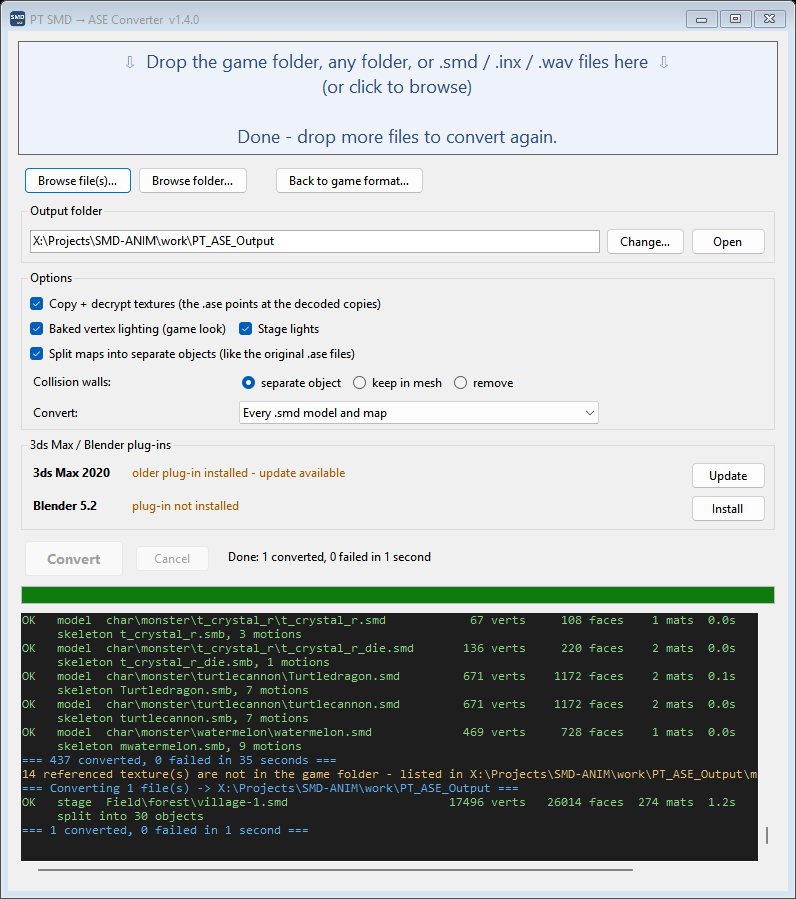
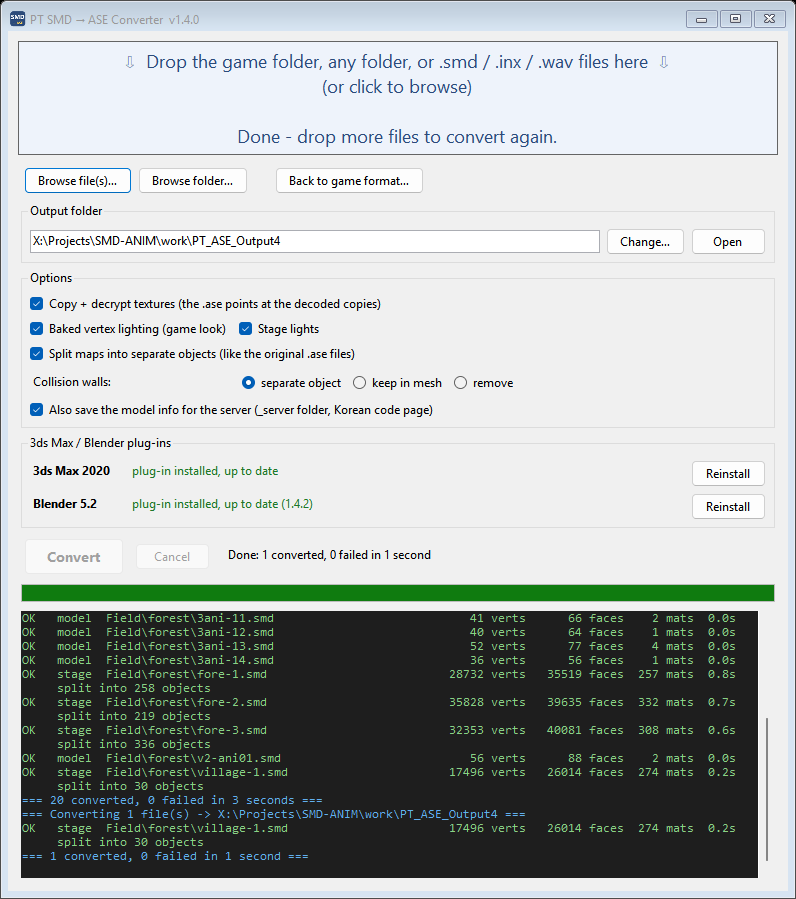
GUI: no Convert dropdown, the window picks the conversion from what is dropped
The game folder, or anything with sounds, text or .inx in it, gets the
whole-folder conversion (every kind of file); .smd files and their textures
get the model conversion. The per-kind ticks are gone; the _server copy stays
as one option. Guides, release readme and screenshots updated.

Changed region(s): [[0.0302, 0.436, 0.9648, 0.9967], [0.8744, 0.4983, 0.9648, 0.5918]]

diff --git a/src/Guide/Guide_3dsMax.html b/src/Guide/Guide_3dsMax.html
@@ -140,7 +140,7 @@ Just want to try it? <b>Scripting → Run Script…</b> → <code>PT_ASE_Importe
   <tr><td>Split maps into separate objects</td><td>Cuts a map into separate objects (buildings, trees, terrain…), close to
       how the original <code>.ase</code> files were made. Untick it to get the whole map as one mesh.</td></tr>
   <tr><td>Collision walls</td><td>The invisible walls of a map: <i>separate object</i> (easy to hide), <i>keep in mesh</i>, or <i>remove</i>.</td></tr>
-  <tr><td>Convert</td><td><i>Every .smd model and map</i>, <i>Terrain maps only</i>, <i>Objects, characters, monsters</i> (skips map terrain), or <i>Whole game folder</i> (below).</td></tr>
+  <tr><td>Also save the model info for the server</td><td>Only for the whole game folder (below): a <code>_server</code> copy of the model info in the game's Korean code page.</td></tr>
 </table></div>
 <div class="note"><b>Keep the output folder together.</b> The <code>.ase</code> files need the <code>textures</code> folder.
 Player armour and heads also need their class animation file (<code>m1_motions.ase</code> … <code>m8_motions.ase</code>),
@@ -149,7 +149,7 @@ which the converter writes into the same folder.</div>
 Run <code>smd2ase.exe --help</code> for every option.</p>
 
 <h3>The whole game folder</h3>
-<p>Drop the whole Priston Tale folder onto the window and <b>Convert</b> switches to <i>Whole game folder</i> by itself.
+<p>Drop the whole Priston Tale folder onto the window (or any folder with sounds, text or <code>.inx</code> files in it): there is nothing to pick, every kind of file is converted.
 Everything comes out readable, in the game's own folder layout:</p>
 <div class="table-wrap"><table>
   <tr><th>Game file</th><th>Becomes</th></tr>
@@ -161,10 +161,10 @@ Everything comes out readable, in the game's own folder layout:</p>
       <code>.inf</code> / <code>.in</code> it was made from: model files, detail levels, and every animation with its frames and key events</td></tr>
   <tr><td><code>_server\</code></td><td>The model info files again in the game's Korean code page: the form the server reads</td></tr>
 </table></div>
-<p>The ticks under <b>Convert</b> leave kinds of file out. <b>Back to game format…</b> goes the other way for files you edited:
+<p><b>Back to game format…</b> goes the other way for files you edited:
 <code>.ini</code> / <code>.inf</code> / <code>.in</code> → <code>.inx</code>, <code>.wav</code>, <code>.bmp</code> and <code>.tga</code> → the game's own headers,
 written to <code>game_format</code> in the output folder. Keep the game's folder names (<code>char\monster\…</code>): an <code>.inx</code> stores a checksum of its own path.</p>
-<figure><img src="Guide_images/convert_whole.png" alt="Converter set to the whole game folder"></figure>
+<figure><img src="Guide_images/convert_whole.png" alt="Converter with the whole game folder dropped in"></figure>
 
 <!-- ============================================================ IMPORT -->
 <h2 id="import">4. Import into 3ds Max</h2>

diff --git a/src/Guide/Guide_Blender.html b/src/Guide/Guide_Blender.html
@@ -140,7 +140,7 @@ maps, weapons and items, monsters and characters, with textures, skeletons and a
   <tr><td>Split maps into separate objects</td><td>Cuts a map into separate objects (buildings, trees, terrain…), close to
       how the original <code>.ase</code> files were made. Untick it to get the whole map as one mesh.</td></tr>
   <tr><td>Collision walls</td><td>The invisible walls of a map: <i>separate object</i> (easy to hide), <i>keep in mesh</i>, or <i>remove</i>.</td></tr>
-  <tr><td>Convert</td><td><i>Every .smd model and map</i>, <i>Terrain maps only</i>, <i>Objects, characters, monsters</i> (skips map terrain), or <i>Whole game folder</i> (below).</td></tr>
+  <tr><td>Also save the model info for the server</td><td>Only for the whole game folder (below): a <code>_server</code> copy of the model info in the game's Korean code page.</td></tr>
 </table></div>
 <div class="note"><b>Keep the output folder together.</b> The <code>.ase</code> files need the <code>textures</code> folder.
 Player armour and heads also need their class animation file (<code>m1_motions.ase</code> … <code>m8_motions.ase</code>),
@@ -149,7 +149,7 @@ which the converter writes into the same folder.</div>
 Run <code>smd2ase.exe --help</code> for every option.</p>
 
 <h3>The whole game folder</h3>
-<p>Drop the whole Priston Tale folder onto the window and <b>Convert</b> switches to <i>Whole game folder</i> by itself.
+<p>Drop the whole Priston Tale folder onto the window (or any folder with sounds, text or <code>.inx</code> files in it): there is nothing to pick, every kind of file is converted.
 Everything comes out readable, in the game's own folder layout:</p>
 <div class="table-wrap"><table>
   <tr><th>Game file</th><th>Becomes</th></tr>
@@ -161,10 +161,10 @@ Everything comes out readable, in the game's own folder layout:</p>
       <code>.inf</code> / <code>.in</code> it was made from: model files, detail levels, and every animation with its frames and key events</td></tr>
   <tr><td><code>_server\</code></td><td>The model info files again in the game's Korean code page: the form the server reads</td></tr>
 </table></div>
-<p>The ticks under <b>Convert</b> leave kinds of file out. <b>Back to game format…</b> goes the other way for files you edited:
+<p><b>Back to game format…</b> goes the other way for files you edited:
 <code>.ini</code> / <code>.inf</code> / <code>.in</code> → <code>.inx</code>, <code>.wav</code>, <code>.bmp</code> and <code>.tga</code> → the game's own headers,
 written to <code>game_format</code> in the output folder. Keep the game's folder names (<code>char\monster\…</code>): an <code>.inx</code> stores a checksum of its own path.</p>
-<figure><img src="Guide_images/convert_whole.png" alt="Converter set to the whole game folder"></figure>
+<figure><img src="Guide_images/convert_whole.png" alt="Converter with the whole game folder dropped in"></figure>
 
 <!-- ============================================================ IMPORT -->
 <h2 id="import">4. Import into Blender</h2>

diff --git a/src/PT_SMD2ASE/MainForm.cs b/src/PT_SMD2ASE/MainForm.cs
@@ -21,9 +21,7 @@ namespace PT_SMD2ASE
         readonly TextBox outBox;
         readonly CheckBox chkTex, chkVc, chkLights, chkSplit, chkOk;
         readonly RadioButton rbSplit, rbKeep, rbDrop;
-        readonly ComboBox cmbWhat;
-        readonly CheckBox chkModels, chkSounds, chkText, chkInfo, chkServer;
-        readonly FlowLayoutPanel clientRow;
+        readonly CheckBox chkServer;
         readonly TableLayoutPanel plugRows;
         readonly Panel warn;
         readonly Label warnLbl, status;
@@ -33,8 +31,8 @@ namespace PT_SMD2ASE
 
         List<string> pending = new List<string>();
         ClientConvert.Scan scan;                // whole game folder mode: what was dropped
-        bool needConfirm, switching;
-        const int WholeFolder = 3;              // cmbWhat index of "Whole game folder"
+        bool needConfirm;
+        bool whole;                             // what was dropped needs the whole-folder conversion
         CancellationTokenSource cts;
         Task worker;
 
@@ -125,37 +123,12 @@ namespace PT_SMD2ASE
             if (!rbKeep.Checked && !rbDrop.Checked) rbSplit.Checked = true;
             coll.Controls.AddRange(new Control[] { rbSplit, rbKeep, rbDrop });
             opt.Controls.Add(coll, 1, 3);
-            opt.Controls.Add(new Label { Text = "Convert:", AutoSize = true, Margin = new Padding(3, 7, 3, 3) }, 0, 4);
-            cmbWhat = new ComboBox { DropDownStyle = ComboBoxStyle.DropDownList, Width = 360 };
-            cmbWhat.Items.AddRange(new object[] { "Every .smd model and map", "Terrain maps only", "Objects, characters, monsters",
-                                                  "Whole game folder (models, textures, sounds, text, model info)" });
-            cmbWhat.SelectedIndex = Math.Max(0, Math.Min(WholeFolder, st.What));
-            cmbWhat.SelectedIndexChanged += (s, e) =>
-            {
-                clientRow.Visible = cmbWhat.SelectedIndex == WholeFolder;
-                if (!switching && inputs.Length > 0 && !Busy) ShowSelection();
-            };
-            opt.Controls.Add(cmbWhat, 1, 4);
-            // whole game folder: which kinds of file
-            clientRow = new FlowLayoutPanel { AutoSize = true, AutoSizeMode = AutoSizeMode.GrowAndShrink, WrapContents = true, Dock = DockStyle.Fill, Margin = new Padding(0, 2, 0, 0) };
-            chkModels = new CheckBox { Text = "Models → .ase", AutoSize = true, Checked = st.Models };
-            chkSounds = new CheckBox { Text = "Sounds → playable .wav", AutoSize = true, Checked = st.Sounds };
-            chkText = new CheckBox { Text = "Korean text → UTF-8", AutoSize = true, Checked = st.Text };
-            chkInfo = new CheckBox { Text = "Model info .inx → .ini", AutoSize = true, Checked = st.ModelInfo };
-            chkServer = new CheckBox { Text = "Server copy (_server)", AutoSize = true, Checked = st.ServerCopy };
-            var tips = new ToolTip { AutoPopDelay = 20000 };
-            tips.SetToolTip(chkSounds, "The game's sound effects have a scrambled header (JODO instead of RIFF). Music (.bgm) is saved as .wav.");
-            tips.SetToolTip(chkText, ".inf .ini .in .sin .msg .txt .lua ... are Korean (code page 949). The copies are UTF-8, readable in any editor.");
-            tips.SetToolTip(chkInfo, "Each compiled .inx (monster / NPC / player model info: model files, detail levels,\n" +
-                                     "animation frames and key events) is rebuilt as the .ini / .inf / .in text it was made from.");
-            tips.SetToolTip(chkServer, "<output>\\_server holds the model info files again in the game's own Korean code page:\nthe form the server and the game's tools read.");
-            foreach (var c in new CheckBox[] { chkModels, chkSounds, chkText, chkInfo, chkServer })
-            {
-                c.CheckedChanged += (s, e) => { if (!switching && scan != null && !Busy) ShowSelection(); };
-                clientRow.Controls.Add(c);
-            }
-            clientRow.Visible = cmbWhat.SelectedIndex == WholeFolder;
-            opt.Controls.Add(clientRow, 1, 5);
+            chkServer = new CheckBox { Text = "Also save the model info for the server (_server folder, Korean code page)", AutoSize = true, Checked = st.ServerCopy };
+            new ToolTip { AutoPopDelay = 20000 }.SetToolTip(chkServer,
+                "<output>\\_server holds the model info files (.ini / .inf / .in made from each .inx) again in the game's own\n" +
+                "Korean code page: the form the server and the game's tools read.");
+            chkServer.CheckedChanged += (s, e) => { if (scan != null && !Busy) ShowSelection(); };
+            opt.Controls.Add(chkServer, 0, 4); opt.SetColumnSpan(chkServer, 2);
             opGrp.Controls.Add(opt);
             root.Controls.Add(opGrp);
 
@@ -309,7 +282,7 @@ namespace PT_SMD2ASE
 
         void UpdateButtons()
         {
-            bool any = Whole ? scan != null && scan.Files.Count > 0 : pending.Count > 0;
+            bool any = whole ? scan != null && scan.Files.Count > 0 : pending.Count > 0;
             bool can = any && !Busy && (!needConfirm || chkOk.Checked);
             btnGo.Enabled = can;
             btnCancel.Enabled = Busy;
@@ -370,15 +343,6 @@ namespace PT_SMD2ASE
             ShowSelection();
         }
 
-        bool Whole => cmbWhat.SelectedIndex == WholeFolder;
-
-        void SetMode(int index)
-        {
-            switching = true;
-            cmbWhat.SelectedIndex = index;
-            switching = false;
-        }
-
         void ShowSelection()
         {
             pending = Batch.Collect(inputs);
@@ -386,18 +350,16 @@ namespace PT_SMD2ASE
             chkOk.Checked = false;
             needConfirm = false;
             warn.Visible = false;
-            // the whole game folder, or files only the whole-folder mode converts: switch to it
+            // the game folder, or anything with sounds, text or model info in it: convert every kind of file;
+            // only .smd (and their textures): the model conversion
             bool gameFolder = inputs.Any(p => Directory.Exists(p) && ClientConvert.LooksLikeClient(p));
-            if (!Whole && (gameFolder || pending.Count == 0))
-            {
-                var sc = ClientConvert.ScanInputs(inputs);
-                if (gameFolder || sc.HasClientFiles) { SetMode(WholeFolder); scan = sc; }
-            }
-            if (Whole) { ShowClientSelection(); return; }
+            var sc = ClientConvert.ScanInputs(inputs);
+            whole = gameFolder || sc.HasClientFiles || (pending.Count == 0 && sc.Files.Count > 0);
+            if (whole) { scan = sc; ShowClientSelection(); return; }
             if (pending.Count == 0)
             {
-                SetDropText("No .smd files found in what you dropped.");
-                Log("No .smd files found in: " + string.Join("; ", inputs), Warn);
+                SetDropText("Nothing to convert in what you dropped.");
+                Log("No game files found in: " + string.Join("; ", inputs), Warn);
                 UpdateButtons();
                 return;
             }
@@ -427,8 +389,7 @@ namespace PT_SMD2ASE
 
         ClientSettings ClientOptions() => new ClientSettings
         {
-            OutDir = OutDir, Models = chkModels.Checked, Textures = chkTex.Checked, Sounds = chkSounds.Checked,
-            Text = chkText.Checked, ModelInfo = chkInfo.Checked, ServerCopy = chkServer.Checked && chkInfo.Checked,
+            OutDir = OutDir, Textures = chkTex.Checked, ServerCopy = chkServer.Checked,
         };
 
         void ShowClientSelection()
@@ -446,7 +407,7 @@ namespace PT_SMD2ASE
             Part(c.ModelInfo, ClientConvert.FileKind.ModelInfo, "model info files");
             if (parts.Count == 0)
             {
-                SetDropText("Nothing to convert in what you dropped (with the options ticked).");
+                SetDropText("Nothing to convert in what you dropped.");
                 UpdateButtons();
                 return;
             }
@@ -525,7 +486,7 @@ namespace PT_SMD2ASE
         // ------------------------------------------------------------- conversion
         void Start()
         {
-            if (Whole) { StartClient(); return; }
+            if (whole) { StartClient(); return; }
             if (pending.Count == 0 || Busy || (needConfirm && !chkOk.Checked)) return;
             string outDir = OutDir;
             try { Directory.CreateDirectory(outDir); }
@@ -537,8 +498,6 @@ namespace PT_SMD2ASE
             {
                 OutDir = outDir,
                 Textures = chkTex.Checked,
-                StagesOnly = cmbWhat.SelectedIndex == 1,
-                ModelsOnly = cmbWhat.SelectedIndex == 2,
             };
             s.Template.SplitCollision = !rbKeep.Checked;
             s.Template.DropCollision = rbDrop.Checked;
@@ -677,9 +636,7 @@ namespace PT_SMD2ASE
             st.Lights = chkLights.Checked;
             st.SplitObjects = chkSplit.Checked;
             st.Collision = rbKeep.Checked ? "keep" : rbDrop.Checked ? "drop" : "split";
-            st.What = cmbWhat.SelectedIndex;
-            st.Models = chkModels.Checked; st.Sounds = chkSounds.Checked; st.Text = chkText.Checked;
-            st.ModelInfo = chkInfo.Checked; st.ServerCopy = chkServer.Checked;
+            st.ServerCopy = chkServer.Checked;
             if (WindowState == FormWindowState.Normal) { st.Width = ClientSize.Width; st.Height = ClientSize.Height; }
             st.Save();
         }
@@ -707,7 +664,6 @@ namespace PT_SMD2ASE
         public bool TestBusy => Busy;
         public string TestStatus => status.Text;
         public void TestSetOut(string d) => outBox.Text = d;
-        public int TestMode => cmbWhat.SelectedIndex;
-        public void TestSetMode(int i) => cmbWhat.SelectedIndex = i;
+        public bool TestWhole => whole;
     }
 }

diff --git a/src/PT_SMD2ASE/Settings.cs b/src/PT_SMD2ASE/Settings.cs
@@ -16,8 +16,8 @@ namespace PT_SMD2ASE
 
         public string OutDir = DefaultOut, LastIn = "", Collision = "split";
         public bool Textures = true, VertexColors = true, Lights = true, SplitObjects = true;
-        public bool Models = true, Sounds = true, Text = true, ModelInfo = true, ServerCopy = true;   // whole game folder
-        public int What = 0, Width = 800, Height = 860;
+        public bool ServerCopy = true;          // whole game folder: _server copy of the model info
+        public int Width = 800, Height = 860;
 
         public static Settings Load()
         {
@@ -39,11 +39,6 @@ namespace PT_SMD2ASE
                 if (d.TryGetValue("vertex_colors", out v)) s.VertexColors = v == "1";
                 if (d.TryGetValue("lights", out v)) s.Lights = v == "1";
                 if (d.TryGetValue("split_objects", out v)) s.SplitObjects = v == "1";
-                if (d.TryGetValue("what", out v)) int.TryParse(v, out s.What);
-                if (d.TryGetValue("models", out v)) s.Models = v == "1";
-                if (d.TryGetValue("sounds", out v)) s.Sounds = v == "1";
-                if (d.TryGetValue("text", out v)) s.Text = v == "1";
-                if (d.TryGetValue("model_info", out v)) s.ModelInfo = v == "1";
                 if (d.TryGetValue("server_copy", out v)) s.ServerCopy = v == "1";
                 if (d.TryGetValue("width", out v) && int.TryParse(v, out int w) && w >= 640) s.Width = w;
                 if (d.TryGetValue("height", out v) && int.TryParse(v, out int h) && h >= 800) s.Height = h;   // (smaller: saved before the plug-in panel)
@@ -61,9 +56,7 @@ namespace PT_SMD2ASE
                 {
                     "out=" + OutDir, "last_in=" + LastIn, "collision=" + Collision,
                     "textures=" + (Textures ? 1 : 0), "vertex_colors=" + (VertexColors ? 1 : 0), "lights=" + (Lights ? 1 : 0), "split_objects=" + (SplitObjects ? 1 : 0),
-                    "what=" + What.ToString(CultureInfo.InvariantCulture),
-                    "models=" + (Models ? 1 : 0), "sounds=" + (Sounds ? 1 : 0), "text=" + (Text ? 1 : 0),
-                    "model_info=" + (ModelInfo ? 1 : 0), "server_copy=" + (ServerCopy ? 1 : 0),
+                    "server_copy=" + (ServerCopy ? 1 : 0),
                     "width=" + Width.ToString(CultureInfo.InvariantCulture), "height=" + Height.ToString(CultureInfo.InvariantCulture),
                 });
             }

diff --git a/src/PT_SMD2ASE/Program.cs b/src/PT_SMD2ASE/Program.cs
@@ -56,9 +56,9 @@ namespace PT_SMD2ASE
             {
                 switch (step)
                 {
-                    case 0: f.TestSetOut(outDir); f.TestSetMode(0); Shot("cs_gui_0_start.png"); f.TestInput(new[] { folder }); step++; break;
+                    case 0: f.TestSetOut(outDir); Shot("cs_gui_0_start.png"); f.TestInput(new[] { folder }); step++; break;
                     case 1:
-                        report.AppendLine("folder: warning=" + f.TestWarningVisible + " convertEnabled=" + f.TestConvertEnabled);
+                        report.AppendLine("folder: whole=" + f.TestWhole + " warning=" + f.TestWarningVisible + " convertEnabled=" + f.TestConvertEnabled);
                         f.TestConvert();                                            // must be ignored (not ticked)
                         report.AppendLine("convert before tick started=" + f.TestBusy);
                         Shot("cs_gui_1_warning.png");
@@ -82,7 +82,7 @@ namespace PT_SMD2ASE
                         step = 6;
                         goto case 6;
                     case 4:
-                        report.AppendLine("game folder: mode=" + f.TestMode + " warning=" + f.TestWarningVisible + " convertEnabled=" + f.TestConvertEnabled);
+                        report.AppendLine("game folder: whole=" + f.TestWhole + " warning=" + f.TestWarningVisible + " convertEnabled=" + f.TestConvertEnabled);
                         Shot("cs_gui_4_client.png");
                         f.TestTick();
                         f.TestConvert();
